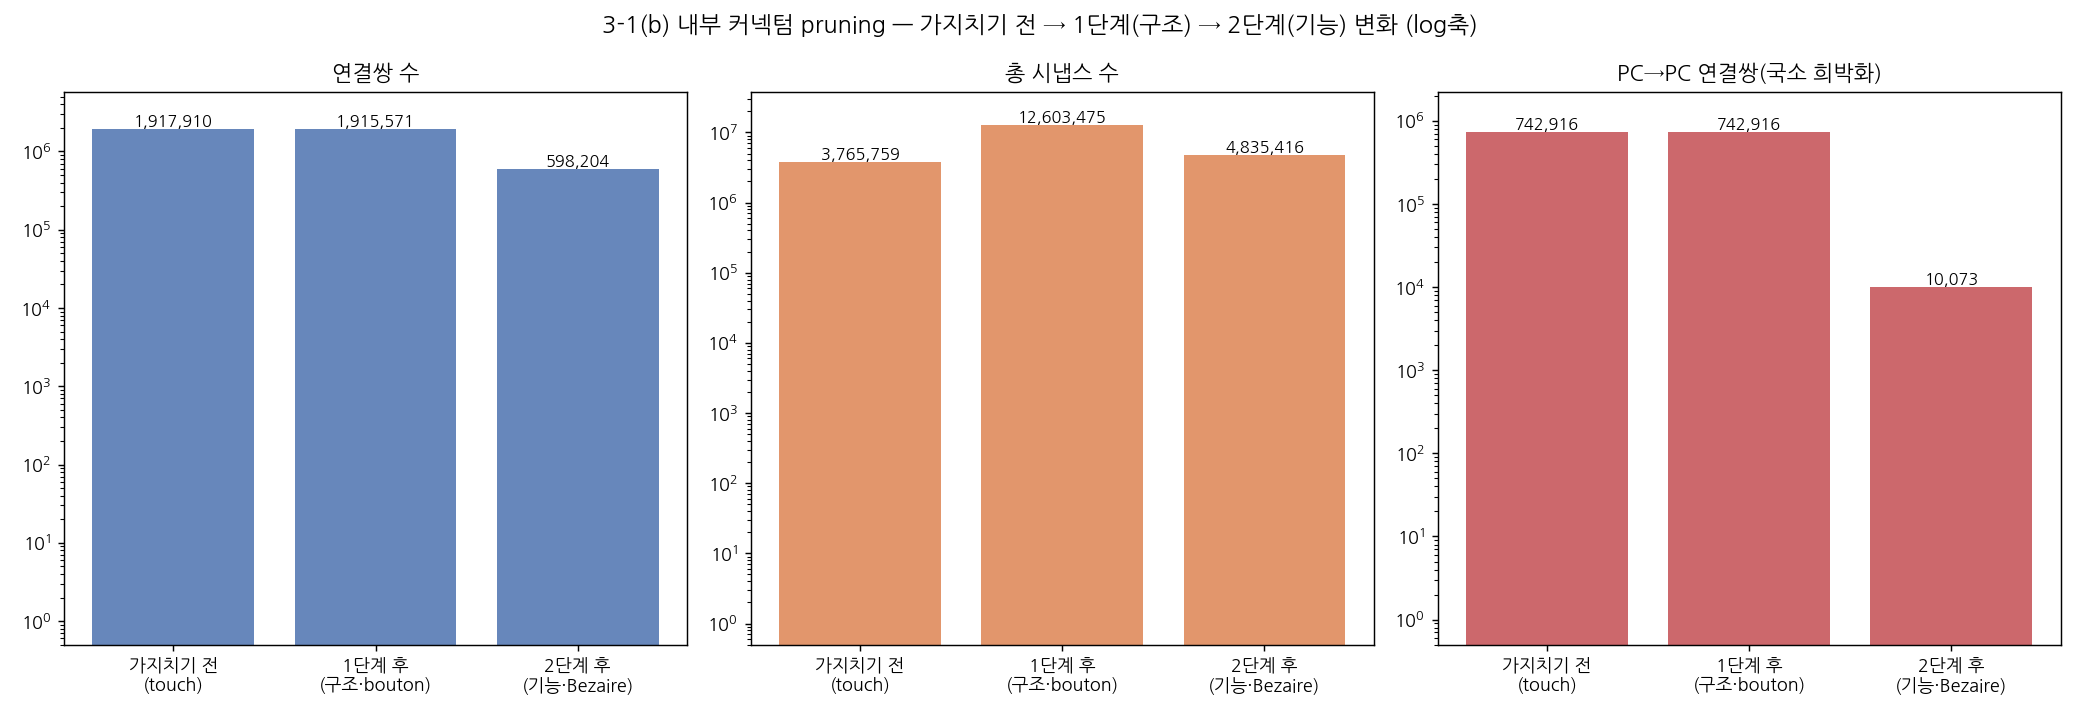
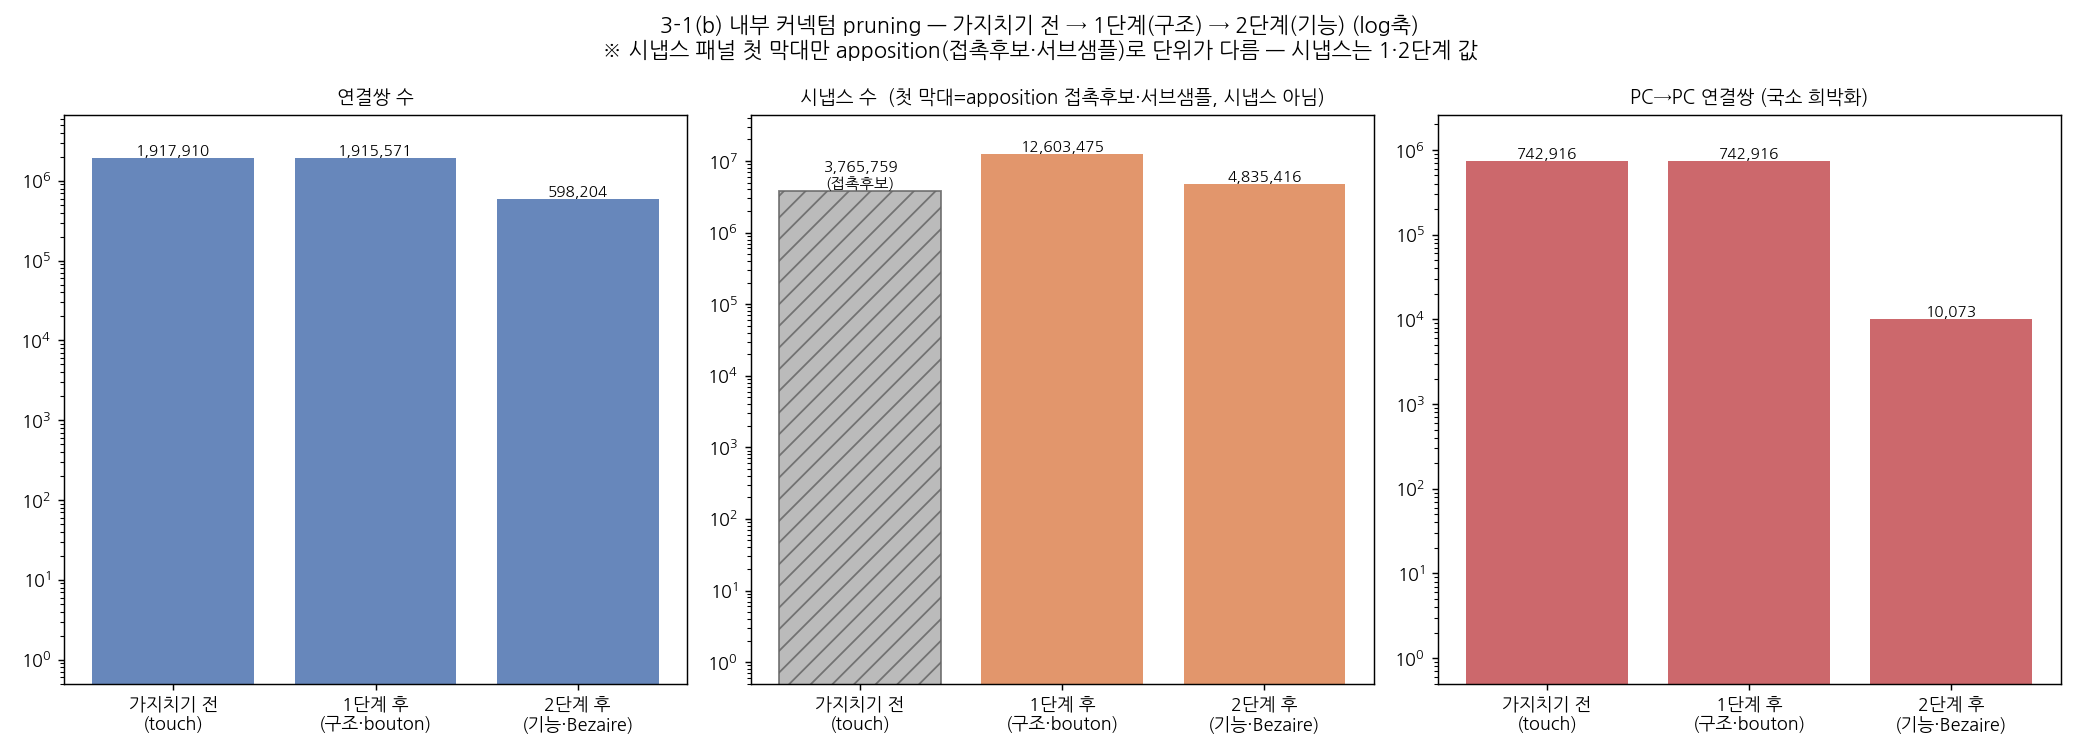
05 3-1(b): 직관 wiring 그림(세포1개 입력 83쌍) + 3단계 그래프 라벨정정(apposition 구분)

diff --git a/05_Micro_slice_CA1_Simulation/03_network/1_connectome/wiring_figure.py b/05_Micro_slice_CA1_Simulation/03_network/1_connectome/wiring_figure.py
@@ -1,0 +1,91 @@
+# -*- coding: utf-8 -*-
+"""
+03_network/1_connectome/wiring_figure.py  —  3-1(b) 직관: 세포 하나 wiring
+
+E3 근처 추체세포 1개를 골라, 실제 형태(수상돌기)와 그 세포에 연결된 전시냅스
+세포들(내부 커넥텀 결과)을 소마+연결선으로 그린다. 억제뉴런 종류별 색·연결선.
+결과: figures/3-1b_wiring.png
+
+재료: synapses_internal.npz · window_cells.npz · morphology_library · config
+실행: python 03_network/1_connectome/wiring_figure.py
+"""
+import os
+import json
+import numpy as np
+from scipy.spatial.transform import Rotation as Rot
+import matplotlib
+matplotlib.use("Agg")
+import matplotlib.pyplot as plt
+from matplotlib.collections import LineCollection
+from matplotlib.patches import Patch
+import logging
+logging.getLogger("matplotlib.font_manager").setLevel(logging.ERROR)
+plt.rcParams["font.family"] = ["NanumGothic", "Malgun Gothic", "DejaVu Sans"]
+plt.rcParams["axes.unicode_minus"] = False
+
+HERE = os.path.dirname(os.path.abspath(__file__))
+ROOT = os.path.abspath(os.path.join(HERE, "..", ".."))
+DERIVED = os.path.join(ROOT, "data", "derived")
+LIB = os.path.join(ROOT, "data", "morphology_library", "morphology_library")
+CFG = os.path.join(ROOT, "config", "window_layout.json")
+FIG = os.path.join(HERE, "figures")
+os.makedirs(FIG, exist_ok=True)
+CMAP = {"SP_PC": "#C44E52", "SP_Ivy": "#8172B3", "SP_PVBC": "#4C72B0", "SP_CCKBC": "#55A868",
+        "SO_OLM": "#CCB974", "SP_BS": "#DD8452", "SO_Tri": "#937860", "SR_SCA": "#DA8BC3",
+        "SO_BS": "#8C8C8C", "SLM_PPA": "#64B5CD", "SP_AA": "#E377C2", "SO_BP": "#7F7F7F"}
+
+
+def main():
+    wc = np.load(os.path.join(DERIVED, "window_cells.npz"), allow_pickle=True)
+    xyz = wc["xyz"]; Q = wc["orientation_wxyz"]; uvw = wc["uvw"]; mt = wc["mtype"].astype(str)
+    morph = wc["morphology"].astype(str)
+    syn = np.load(os.path.join(DERIVED, "synapses_internal.npz"))
+    pre = syn["pre_gid"]; post = syn["post_gid"]; ns = syn["n_syn"]
+    cfg = json.load(open(CFG, encoding="utf-8")); fr = cfg["frame_um"]
+    seed = np.array(fr["seed"]); M = np.column_stack([fr["long_dir"], fr["radial_dir"], fr["thick_dir"]])
+    e3 = np.array(next(e for e in cfg["electrodes"]["list"] if e["role"] == "stim")["xyz_um"])
+
+    # E3 근처 추체 1개
+    pc = np.where(mt == "SP_PC")[0]
+    tgt = pc[np.argmin(np.linalg.norm(xyz[pc] - e3, axis=1))]
+
+    # 대상 세포 수상돌기(local u-r)
+    rows = np.loadtxt(os.path.join(LIB, morph[tgt] + ".swc"), comments="#")
+    typ = rows[:, 1].astype(int); pts = rows[:, 2:5]; idx = rows[:, 0].astype(int); par = rows[:, 6].astype(int)
+    id2 = {i: k for k, i in enumerate(idx)}
+    loc = (xyz[tgt] + Rot.from_quat(Q[tgt][[1, 2, 3, 0]]).apply(pts) - seed) @ M
+    segs = [[(loc[id2[par[k]], 0], loc[id2[par[k]], 1]), (loc[k, 0], loc[k, 1])]
+            for k in range(len(idx)) if par[k] in id2 and typ[k] in (1, 3, 4)]
+    tu, tr = uvw[tgt, 0], uvw[tgt, 1]
+
+    fig, ax = plt.subplots(figsize=(12, 11))
+    ax.add_collection(LineCollection(segs, colors="0.55", linewidths=0.5, alpha=0.7, zorder=1))
+
+    # 입력 세포들
+    inmask = post == tgt
+    ins = pre[inmask]; insyn = ns[inmask]
+    order = np.argsort(mt[ins])
+    from collections import Counter
+    cnt = Counter(mt[ins])
+    for j in order:
+        p = ins[j]; c = CMAP.get(mt[p], "gray")
+        ax.plot([uvw[p, 0], tu], [uvw[p, 1], tr], color=c, lw=0.3 + 0.12 * insyn[j], alpha=0.5, zorder=2)
+        ax.plot(uvw[p, 0], uvw[p, 1], "o", color=c, ms=4, zorder=3)
+    ax.plot(tu, tr, "*", color="black", ms=26, zorder=6, label="대상 추체")
+
+    ax.set_aspect("equal"); ax.set_xlabel("종축 u (µm)"); ax.set_ylabel("층관통 r (µm, SP=0)")
+    ax.set_title(f"3-1(b) 직관 wiring — E3 근처 추체 1개에 연결된 내부 입력 {inmask.sum()}쌍\n"
+                 f"(수상돌기=회색, 전시냅스 소마·연결선=종류별 색, 선굵기∝시냅스수)")
+    handles = [Patch(color=CMAP[m], label=f"{m} ({cnt.get(m,0)})") for m in
+               sorted(cnt, key=lambda x: -cnt[x])]
+    handles += [plt.Line2D([], [], marker="*", ls="", mfc="black", mec="black", ms=14, label="대상 추체")]
+    ax.legend(handles=handles, loc="upper right", fontsize=8, title=f"전시냅스 유형(쌍수) · 총 {inmask.sum()}")
+    fig.tight_layout(); fig.savefig(os.path.join(FIG, "3-1b_wiring.png"), dpi=135)
+    plt.close(fig)
+    print(f"[3-1b] 대상 추체 gid={tgt} (E3 근처) · 내부 입력쌍 {inmask.sum()} · 시냅스 {insyn.sum()}")
+    print("[입력 유형]", dict(cnt))
+    print(f"[3-1b] 그림 -> {FIG}/3-1b_wiring.png")
+
+
+if __name__ == "__main__":
+    main()

diff --git a/05_Micro_slice_CA1_Simulation/03_network/1_connectome/prune_functional.py b/05_Micro_slice_CA1_Simulation/03_network/1_connectome/prune_functional.py
@@ -126,17 +126,22 @@ def stages_graph(pre0, post0, mt, Pre, Post, Ns):
     pcpc = [pcpc_pairs(pre0, post0), pcpc_pairs(s1["pre_gid"], s1["post_gid"]), pcpc_pairs(Pre, Post)]
     labels = ["가지치기 전\n(touch)", "1단계 후\n(구조·bouton)", "2단계 후\n(기능·Bezaire)"]
 
-    fig, axes = plt.subplots(1, 3, figsize=(16, 5.5))
-    for ax, data, ttl, col in zip(
-            axes, [pairs, syns, pcpc],
-            ["연결쌍 수", "총 시냅스 수", "PC→PC 연결쌍(국소 희박화)"],
-            ["#4C72B0", "#DD8452", "#C44E52"]):
+    fig, axes = plt.subplots(1, 3, figsize=(16, 5.8))
+    # (data, 제목, 색, apposition막대 인덱스(단위 다름 표시))
+    panels = [(pairs, "연결쌍 수", "#4C72B0", None),
+              (syns, "시냅스 수  (첫 막대=apposition 접촉후보·서브샘플, 시냅스 아님)", "#DD8452", 0),
+              (pcpc, "PC→PC 연결쌍 (국소 희박화)", "#C44E52", None)]
+    for ax, (data, ttl, col, appidx) in zip(axes, panels):
         bars = ax.bar(labels, data, color=col, alpha=0.85)
-        ax.set_title(ttl); ax.set_yscale("log")
-        for bx, v in zip(bars, data):
-            ax.text(bx.get_x() + bx.get_width()/2, v, f"{int(v):,}", ha="center", va="bottom", fontsize=9)
-        ax.set_ylim(0.5, max(data) * 3)
-    fig.suptitle("3-1(b) 내부 커넥텀 pruning — 가지치기 전 → 1단계(구조) → 2단계(기능) 변화 (log축)", fontsize=13)
+        if appidx is not None:   # apposition 막대: 단위 다름 → 회색 빗금
+            bars[appidx].set_facecolor("#b0b0b0"); bars[appidx].set_hatch("//"); bars[appidx].set_edgecolor("#666")
+        ax.set_title(ttl, fontsize=10.5); ax.set_yscale("log")
+        for k, (bx, v) in enumerate(zip(bars, data)):
+            note = "\n(접촉후보)" if appidx is not None and k == appidx else ""
+            ax.text(bx.get_x() + bx.get_width()/2, v, f"{int(v):,}{note}", ha="center", va="bottom", fontsize=8.5)
+        ax.set_ylim(0.5, max(data) * 3.5)
+    fig.suptitle("3-1(b) 내부 커넥텀 pruning — 가지치기 전 → 1단계(구조) → 2단계(기능) (log축)\n"
+                 "※ 시냅스 패널 첫 막대만 apposition(접촉후보·서브샘플)로 단위가 다름 — 시냅스는 1·2단계 값", fontsize=12)
     fig.tight_layout(); fig.savefig(os.path.join(FIG, "3-1b_prune_stages.png"), dpi=130)
     plt.close(fig)
 
